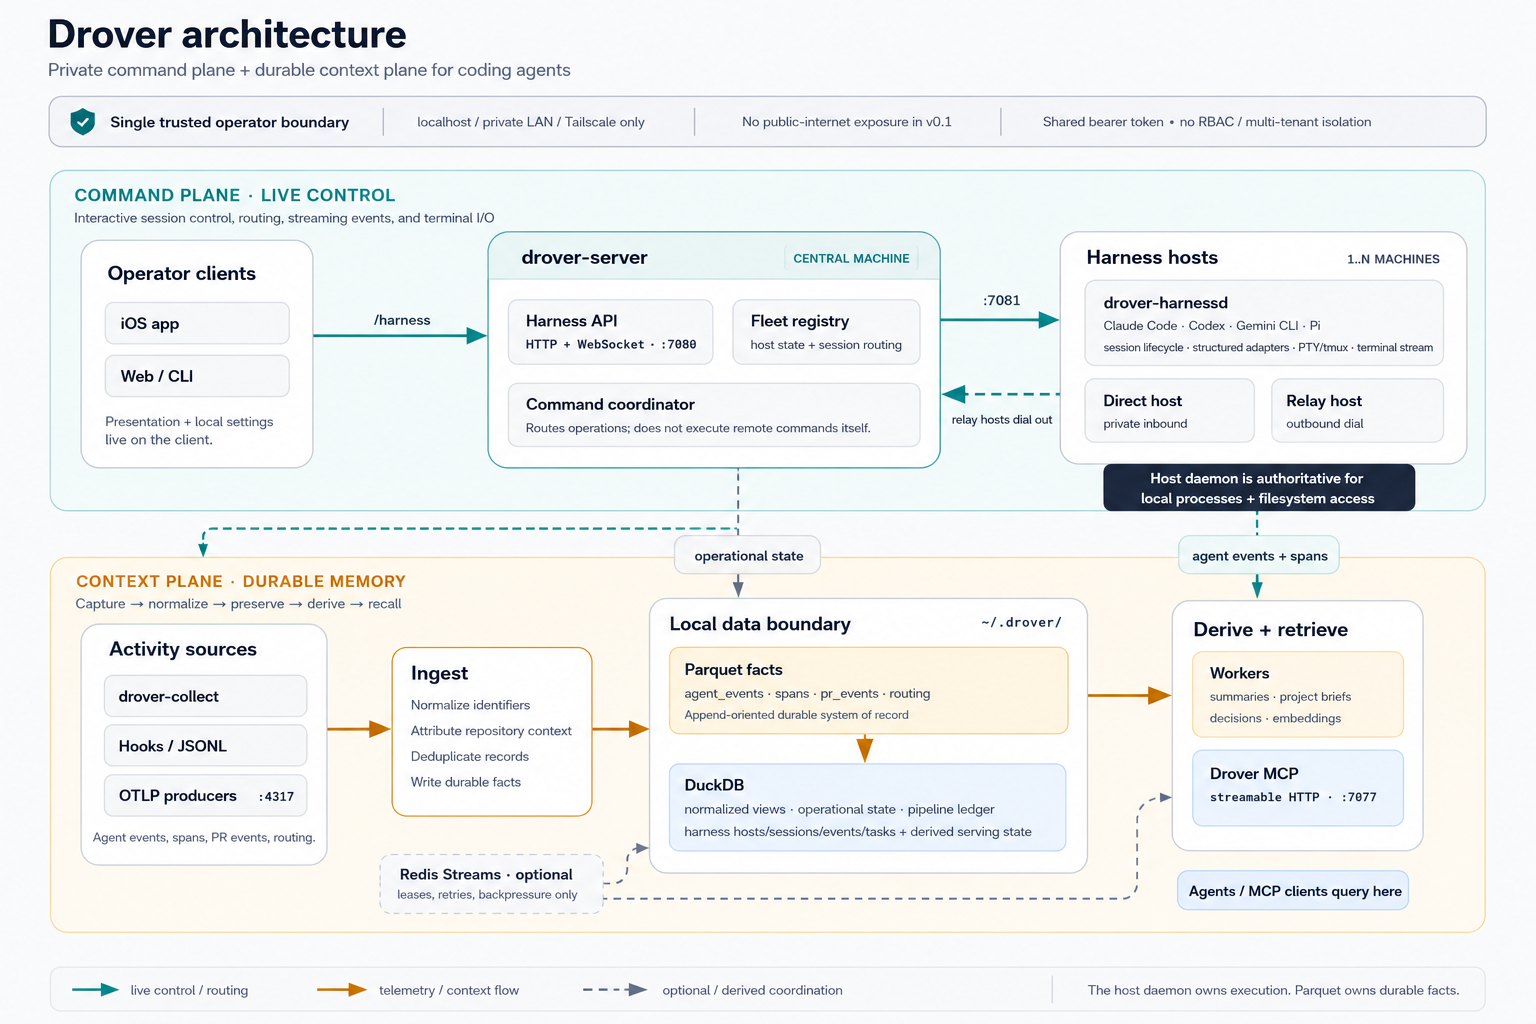
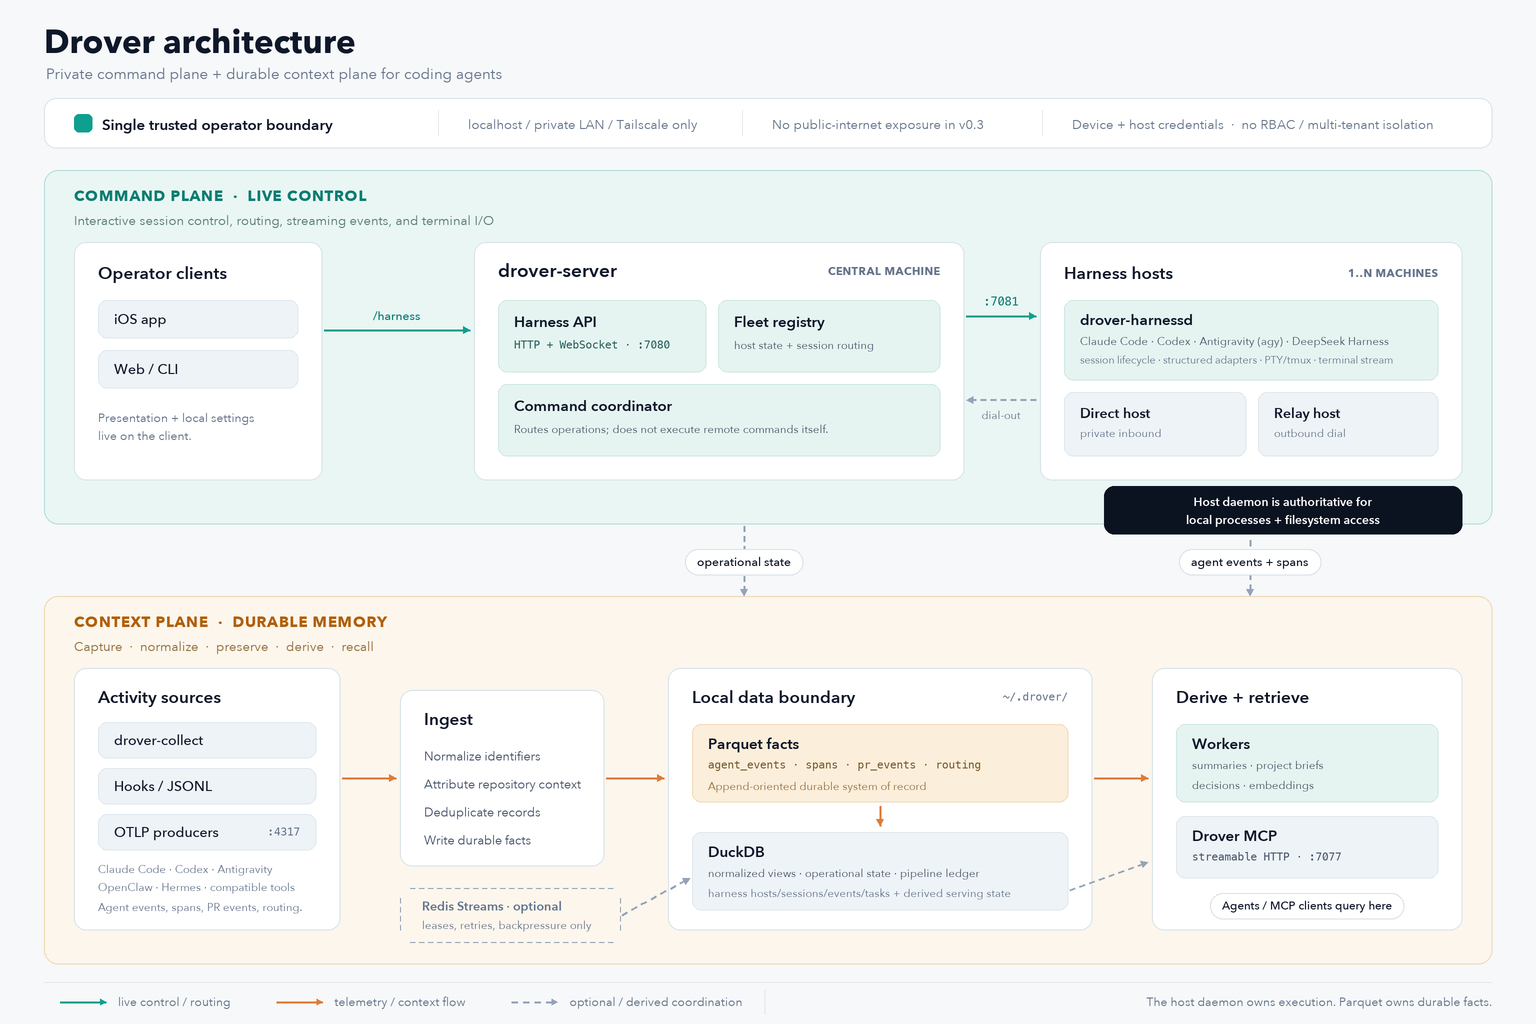
Regenerate architecture diagram for v0.3
The committed diagram still described v0.1: it labelled the network
boundary "No public-internet exposure in v0.1", named a shared bearer
token as the auth model, and listed Gemini CLI and Pi as harness hosts.
None of that matches docs/architecture.md any more.

Redraw it from the current docs:

- v0.1 -> v0.3 on the exposure claim
- shared bearer token -> device + host credentials
- Gemini CLI / Pi -> Antigravity (agy) / DeepSeek Harness
- split launchable harnesses from ingest-only sources, so OpenClaw and
  Hermes no longer read as things drover-harnessd can start

There was no vector source for the old PNG, so add the generator that
produced this one. Keeping the diagram in a script means the next
harness or version bump is a string edit and a re-run rather than
another redraw.

Claude-Session: https://claude.ai/code/session_01PS5xfiQXghasr6QuuDcKia

diff --git a/scripts/make_architecture_diagram.py b/scripts/make_architecture_diagram.py
@@ -1,0 +1,274 @@
+#!/usr/bin/env python3
+"""Render docs/drover-architecture.png.
+
+The diagram is generated, not hand-drawn, so it can be kept in step with
+docs/architecture.md. When a harness, port, or boundary claim changes there,
+edit the matching string below and re-run this script.
+
+Requires Pillow and the macOS system fonts (Avenir Next, Menlo).
+
+    python3 scripts/make_architecture_diagram.py [output.png]
+"""
+import sys
+from pathlib import Path
+
+from PIL import Image, ImageDraw, ImageFont
+
+REPO = Path(__file__).resolve().parent.parent
+DEFAULT_OUT = REPO / "docs" / "drover-architecture.png"
+
+S = 2                      # supersample factor
+W, H = 1536, 1024
+
+AVENIR = "/System/Library/Fonts/Avenir Next.ttc"
+MENLO = "/System/Library/Fonts/Menlo.ttc"
+BOLD, DEMI, MEDIUM, REG = 0, 2, 5, 7
+
+BG        = (246, 248, 249)
+INK       = (15, 23, 42)
+MUTED     = (100, 116, 139)
+FAINT     = (148, 163, 184)
+CARD      = (255, 255, 255)
+CARD_EDGE = (216, 226, 231)
+
+TEAL_BG, TEAL_EDGE, TEAL_INK, TEAL = (233, 246, 244), (178, 221, 216), (13, 124, 113), (14, 159, 142)
+AMB_BG, AMB_EDGE, AMB_INK, AMBER = (252, 246, 236), (238, 216, 179), (177, 95, 10), (224, 123, 57)
+TINT_TEAL = (230, 244, 241)
+TINT_AMB  = (251, 238, 218)
+TINT_BLUE = (238, 243, 247)
+DARK      = (11, 18, 32)
+
+_fc = {}
+
+
+def F(size, idx=REG, mono=False):
+    key = (size, idx, mono)
+    if key not in _fc:
+        _fc[key] = ImageFont.truetype(MENLO if mono else AVENIR, size * S, index=0 if mono else idx)
+    return _fc[key]
+
+
+img = Image.new("RGB", (W * S, H * S), BG)
+d = ImageDraw.Draw(img)
+
+
+def box(x0, y0, x1, y1, fill=CARD, edge=CARD_EDGE, r=12, wid=1, dash=False):
+    xy = [x0 * S, y0 * S, x1 * S, y1 * S]
+    if dash:
+        d.rounded_rectangle(xy, radius=r * S, fill=fill)
+        _dash_rect(x0, y0, x1, y1, edge, r)
+    else:
+        d.rounded_rectangle(xy, radius=r * S, fill=fill, outline=edge, width=wid * S)
+
+
+def _dash_rect(x0, y0, x1, y1, color, r):
+    step, on = 9, 5
+    for x in range(int(x0 + r), int(x1 - r), step):
+        d.line([x * S, y0 * S, (x + on) * S, y0 * S], fill=color, width=1 * S)
+        d.line([x * S, y1 * S, (x + on) * S, y1 * S], fill=color, width=1 * S)
+    for y in range(int(y0 + r), int(y1 - r), step):
+        d.line([x0 * S, y * S, x0 * S, (y + on) * S], fill=color, width=1 * S)
+        d.line([x1 * S, y * S, x1 * S, (y + on) * S], fill=color, width=1 * S)
+
+
+def T(x, y, s, size=13, idx=REG, fill=INK, mono=False, anchor="la", track=0):
+    f = F(size, idx, mono)
+    if track:
+        total = sum(d.textlength(c, font=f) + track * S for c in s) - track * S
+        cx = x * S
+        if anchor[0] == "r":
+            cx -= total
+        elif anchor[0] == "m":
+            cx -= total / 2
+        for ch in s:
+            d.text((cx, y * S), ch, font=f, fill=fill, anchor="la")
+            cx += d.textlength(ch, font=f) + track * S
+        return
+    d.text((x * S, y * S), s, font=f, fill=fill, anchor=anchor)
+
+
+def TW(s, size=13, idx=REG, mono=False):
+    return d.textlength(s, font=F(size, idx, mono)) / S
+
+
+def arrow(x0, y0, x1, y1, color, wid=2, dash=False, head=7):
+    if dash:
+        n = max(1, int(((x1 - x0) ** 2 + (y1 - y0) ** 2) ** 0.5 / 10))
+        for i in range(n):
+            t0, t1 = i / n, i / n + 0.55 / n
+            d.line([(x0 + (x1 - x0) * t0) * S, (y0 + (y1 - y0) * t0) * S,
+                    (x0 + (x1 - x0) * t1) * S, (y0 + (y1 - y0) * t1) * S], fill=color, width=wid * S)
+    else:
+        d.line([x0 * S, y0 * S, x1 * S, y1 * S], fill=color, width=wid * S)
+    dx, dy = x1 - x0, y1 - y0
+    ln = max((dx * dx + dy * dy) ** 0.5, 0.001)
+    ux, uy = dx / ln, dy / ln
+    px, py = -uy, ux
+    d.polygon([(x1 * S, y1 * S),
+               ((x1 - ux * head + px * head * 0.52) * S, (y1 - uy * head + py * head * 0.52) * S),
+               ((x1 - ux * head - px * head * 0.52) * S, (y1 - uy * head - py * head * 0.52) * S)], fill=color)
+
+
+def pill(cx, cy, s, size=12, fill=CARD, edge=CARD_EDGE, ink=INK, padx=12, h=26):
+    w = TW(s, size, MEDIUM) + padx * 2
+    box(cx - w / 2, cy - h / 2, cx + w / 2, cy + h / 2, fill, edge, r=int(h / 2))
+    T(cx, cy, s, size, MEDIUM, ink, anchor="mm")
+
+
+# ── header ────────────────────────────────────────────────────────────────────
+T(44, 20, "Drover architecture", 33, BOLD)
+T(46, 64, "Private command plane + durable context plane for coding agents", 15, REG, MUTED)
+
+# ── trust boundary strip ──────────────────────────────────────────────────────
+box(44, 98, 1492, 148)
+d.rounded_rectangle([74 * S, 114 * S, 92 * S, 132 * S], radius=5 * S, fill=TEAL)
+T(102, 115, "Single trusted operator boundary", 15, DEMI)
+for xd in (438, 742, 1042):
+    d.line([xd * S, 110 * S, xd * S, 136 * S], fill=(228, 234, 238), width=1 * S)
+T(468, 116, "localhost / private LAN / Tailscale only", 13, REG, MUTED)
+T(772, 116, "No public-internet exposure in v0.3", 13, REG, MUTED)
+T(1072, 116, "Device + host credentials  ·  no RBAC / multi-tenant isolation", 13, REG, MUTED)
+
+# ── command plane ─────────────────────────────────────────────────────────────
+box(44, 170, 1492, 524, TEAL_BG, TEAL_EDGE, r=14)
+T(74, 186, "COMMAND PLANE  ·  LIVE CONTROL", 15, BOLD, TEAL_INK, track=0.7)
+T(74, 212, "Interactive session control, routing, streaming events, and terminal I/O", 13, REG, (91, 124, 120))
+
+# operator clients
+box(74, 242, 322, 480)
+T(98, 262, "Operator clients", 17, DEMI)
+box(98, 300, 298, 338, TINT_BLUE, (223, 232, 238), r=9)
+T(114, 310, "iOS app", 14, MEDIUM)
+box(98, 350, 298, 388, TINT_BLUE, (223, 232, 238), r=9)
+T(114, 360, "Web / CLI", 14, MEDIUM)
+T(98, 410, "Presentation + local settings", 12, REG, MUTED)
+T(98, 428, "live on the client.", 12, REG, MUTED)
+
+# drover-server
+box(474, 242, 964, 480)
+T(498, 258, "drover-server", 19, DEMI)
+T(940, 264, "CENTRAL MACHINE", 11, BOLD, MUTED, anchor="ra", track=0.4)
+box(498, 300, 706, 372, TINT_TEAL, (206, 232, 228), r=9)
+T(514, 312, "Harness API", 15, DEMI)
+T(514, 338, "HTTP + WebSocket · :7080", 11, REG, (40, 96, 90), mono=True)
+box(718, 300, 940, 372, TINT_TEAL, (206, 232, 228), r=9)
+T(734, 312, "Fleet registry", 15, DEMI)
+T(734, 338, "host state + session routing", 11, REG, (71, 85, 105))
+box(498, 384, 940, 456, TINT_TEAL, (206, 232, 228), r=9)
+T(514, 396, "Command coordinator", 15, DEMI)
+T(514, 422, "Routes operations; does not execute remote commands itself.", 11, REG, (71, 85, 105))
+
+# harness hosts
+box(1040, 242, 1462, 480)
+T(1064, 262, "Harness hosts", 17, DEMI)
+T(1438, 266, "1..N MACHINES", 11, BOLD, MUTED, anchor="ra", track=0.4)
+box(1064, 300, 1438, 380, TINT_TEAL, (206, 232, 228), r=9)
+T(1080, 310, "drover-harnessd", 15, DEMI)
+T(1080, 334, "Claude Code · Codex · Antigravity (agy) · DeepSeek Harness", 11, REG, (71, 85, 105))
+T(1080, 353, "session lifecycle · structured adapters · PTY/tmux · terminal stream", 10.5, REG, (100, 116, 139))
+box(1064, 392, 1246, 456, TINT_BLUE, (223, 232, 238), r=9)
+T(1080, 404, "Direct host", 14, DEMI)
+T(1080, 426, "private inbound", 11, REG, MUTED)
+box(1258, 392, 1438, 456, TINT_BLUE, (223, 232, 238), r=9)
+T(1274, 404, "Relay host", 14, DEMI)
+T(1274, 426, "outbound dial", 11, REG, MUTED)
+
+# command-plane arrows
+arrow(324, 330, 470, 330, TEAL)
+T(397, 308, "/harness", 12, MEDIUM, TEAL_INK, anchor="ma")
+arrow(966, 316, 1036, 316, TEAL)
+T(1001, 294, ":7081", 12, MEDIUM, TEAL_INK, anchor="ma", mono=True)
+arrow(1036, 400, 966, 400, FAINT, dash=True)
+T(1001, 408, "dial-out", 11, REG, MUTED, anchor="ma")
+
+# authority callout
+box(1104, 486, 1462, 534, DARK, DARK, r=10)
+T(1283, 494, "Host daemon is authoritative for", 12, DEMI, (255, 255, 255), anchor="ma")
+T(1283, 512, "local processes + filesystem access", 12, DEMI, (255, 255, 255), anchor="ma")
+
+# ── cross-plane flows ─────────────────────────────────────────────────────────
+arrow(744, 526, 744, 596, FAINT, dash=True)
+pill(744, 562, "operational state")
+arrow(1250, 540, 1250, 596, FAINT, dash=True)
+pill(1250, 562, "agent events + spans")
+
+# ── context plane ─────────────────────────────────────────────────────────────
+box(44, 596, 1492, 964, AMB_BG, AMB_EDGE, r=14)
+T(74, 612, "CONTEXT PLANE  ·  DURABLE MEMORY", 15, BOLD, AMB_INK, track=0.7)
+T(74, 638, "Capture  ·  normalize  ·  preserve  ·  derive  ·  recall", 13, REG, (146, 110, 61))
+
+# activity sources
+box(74, 668, 340, 930)
+T(98, 686, "Activity sources", 17, DEMI)
+box(98, 722, 316, 758, TINT_BLUE, (223, 232, 238), r=9)
+T(114, 731, "drover-collect", 14, MEDIUM)
+box(98, 768, 316, 804, TINT_BLUE, (223, 232, 238), r=9)
+T(114, 777, "Hooks / JSONL", 14, MEDIUM)
+box(98, 814, 316, 850, TINT_BLUE, (223, 232, 238), r=9)
+T(114, 823, "OTLP producers", 14, MEDIUM)
+T(300, 825, ":4317", 11, REG, MUTED, anchor="ra", mono=True)
+T(98, 862, "Claude Code · Codex · Antigravity", 11, REG, MUTED)
+T(98, 880, "OpenClaw · Hermes · compatible tools", 11, REG, MUTED)
+T(98, 900, "Agent events, spans, PR events, routing.", 11, REG, MUTED)
+
+# ingest
+box(400, 690, 604, 866)
+T(424, 708, "Ingest", 17, DEMI)
+for i, line in enumerate(["Normalize identifiers", "Attribute repository context",
+                          "Deduplicate records", "Write durable facts"]):
+    T(424, 748 + i * 28, line, 12.5, REG, (71, 85, 105))
+
+# redis
+box(400, 888, 620, 942, AMB_BG, FAINT, r=10, dash=True)
+T(422, 898, "Redis Streams · optional", 12.5, DEMI, (100, 116, 139))
+T(422, 918, "leases, retries, backpressure only", 11, REG, MUTED)
+
+# local data boundary
+box(668, 668, 1092, 930)
+T(692, 686, "Local data boundary", 17, DEMI)
+T(1068, 690, "~/.drover/", 11, REG, MUTED, anchor="ra", mono=True)
+box(692, 724, 1068, 802, TINT_AMB, (240, 220, 187), r=9)
+T(708, 734, "Parquet facts", 15, DEMI)
+T(708, 758, "agent_events · spans · pr_events · routing", 11, REG, (120, 88, 45), mono=True)
+T(708, 779, "Append-oriented durable system of record", 11, REG, (146, 110, 61))
+arrow(880, 806, 880, 826, AMBER)
+box(692, 832, 1068, 910, TINT_BLUE, (223, 232, 238), r=9)
+T(708, 842, "DuckDB", 15, DEMI)
+T(708, 866, "normalized views · operational state · pipeline ledger", 11, REG, (71, 85, 105))
+T(708, 886, "harness hosts/sessions/events/tasks + derived serving state", 11, REG, (100, 116, 139))
+
+# derive + retrieve
+box(1152, 668, 1462, 930)
+T(1176, 686, "Derive + retrieve", 17, DEMI)
+box(1176, 724, 1438, 802, TINT_TEAL, (206, 232, 228), r=9)
+T(1192, 734, "Workers", 15, DEMI)
+T(1192, 758, "summaries · project briefs", 11, REG, (71, 85, 105))
+T(1192, 778, "decisions · embeddings", 11, REG, (71, 85, 105))
+box(1176, 816, 1438, 878, TINT_BLUE, (223, 232, 238), r=9)
+T(1192, 826, "Drover MCP", 15, DEMI)
+T(1192, 850, "streamable HTTP · :7077", 11, REG, (71, 85, 105), mono=True)
+pill(1307, 906, "Agents / MCP clients query here", 11.5)
+
+# context-plane arrows
+arrow(342, 778, 396, 778, AMBER)
+arrow(606, 778, 664, 778, AMBER)
+arrow(1094, 778, 1148, 778, AMBER)
+arrow(622, 915, 690, 878, FAINT, dash=True)
+arrow(1070, 890, 1148, 862, FAINT, dash=True)
+
+# ── legend ────────────────────────────────────────────────────────────────────
+d.line([44 * S, 982 * S, 1492 * S, 982 * S], fill=(226, 232, 236), width=1 * S)
+lx = 60
+for color, label, dash in ((TEAL, "live control / routing", False),
+                           (AMBER, "telemetry / context flow", False),
+                           (FAINT, "optional / derived coordination", True)):
+    arrow(lx, 1002, lx + 46, 1002, color, dash=dash, head=6)
+    T(lx + 58, 994, label, 12, REG, MUTED)
+    lx += 58 + TW(label, 12, REG) + 46
+d.line([(lx - 24) * S, 990 * S, (lx - 24) * S, 1014 * S], fill=(226, 232, 236), width=1 * S)
+T(1492, 994, "The host daemon owns execution. Parquet owns durable facts.", 12, REG, MUTED, anchor="ra")
+
+out = Path(sys.argv[1]) if len(sys.argv) > 1 else DEFAULT_OUT
+out.parent.mkdir(parents=True, exist_ok=True)
+img.resize((W, H), Image.LANCZOS).save(out)
+print(f"wrote {out} ({out.stat().st_size / 1e6:.2f} MB)")
